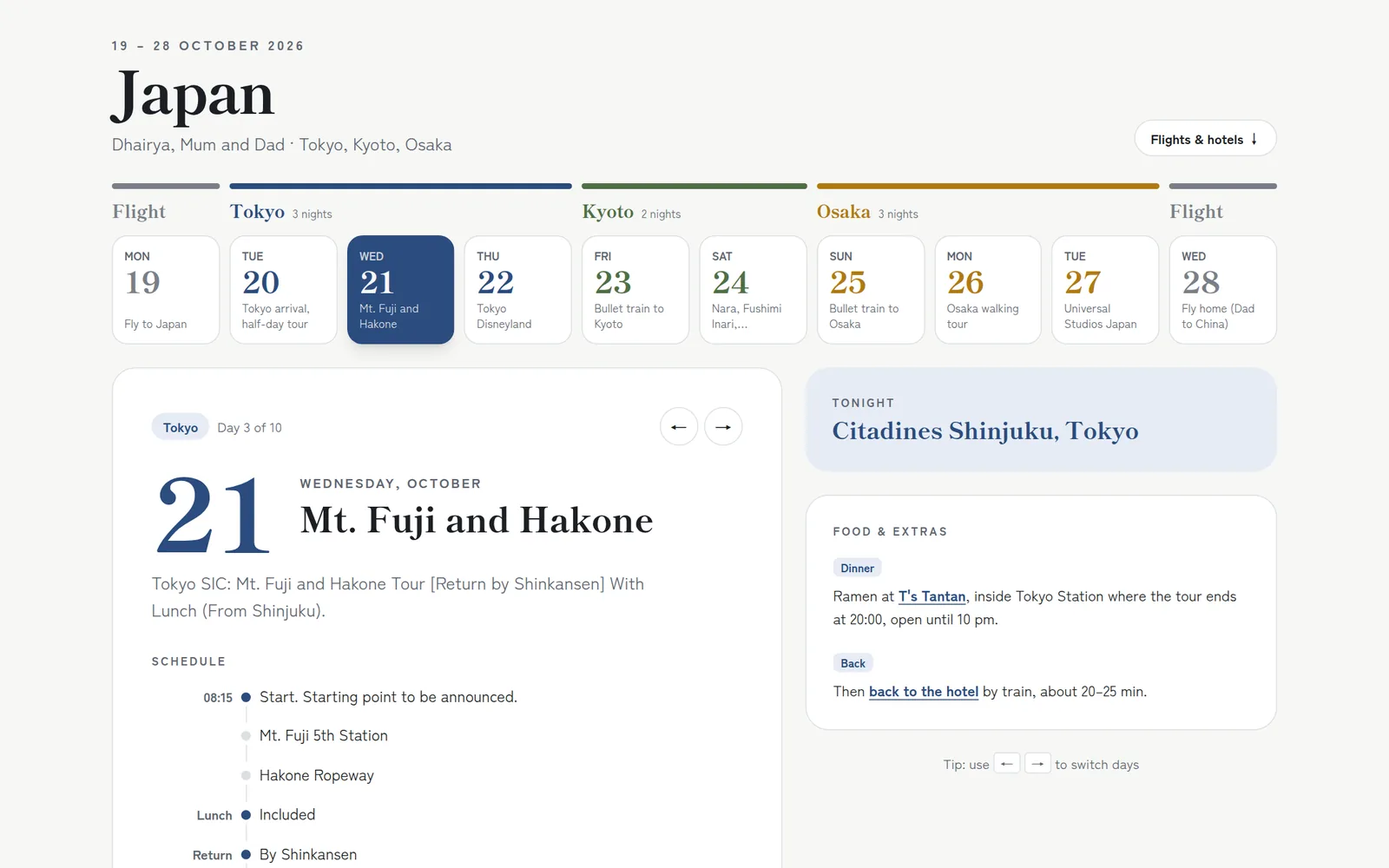
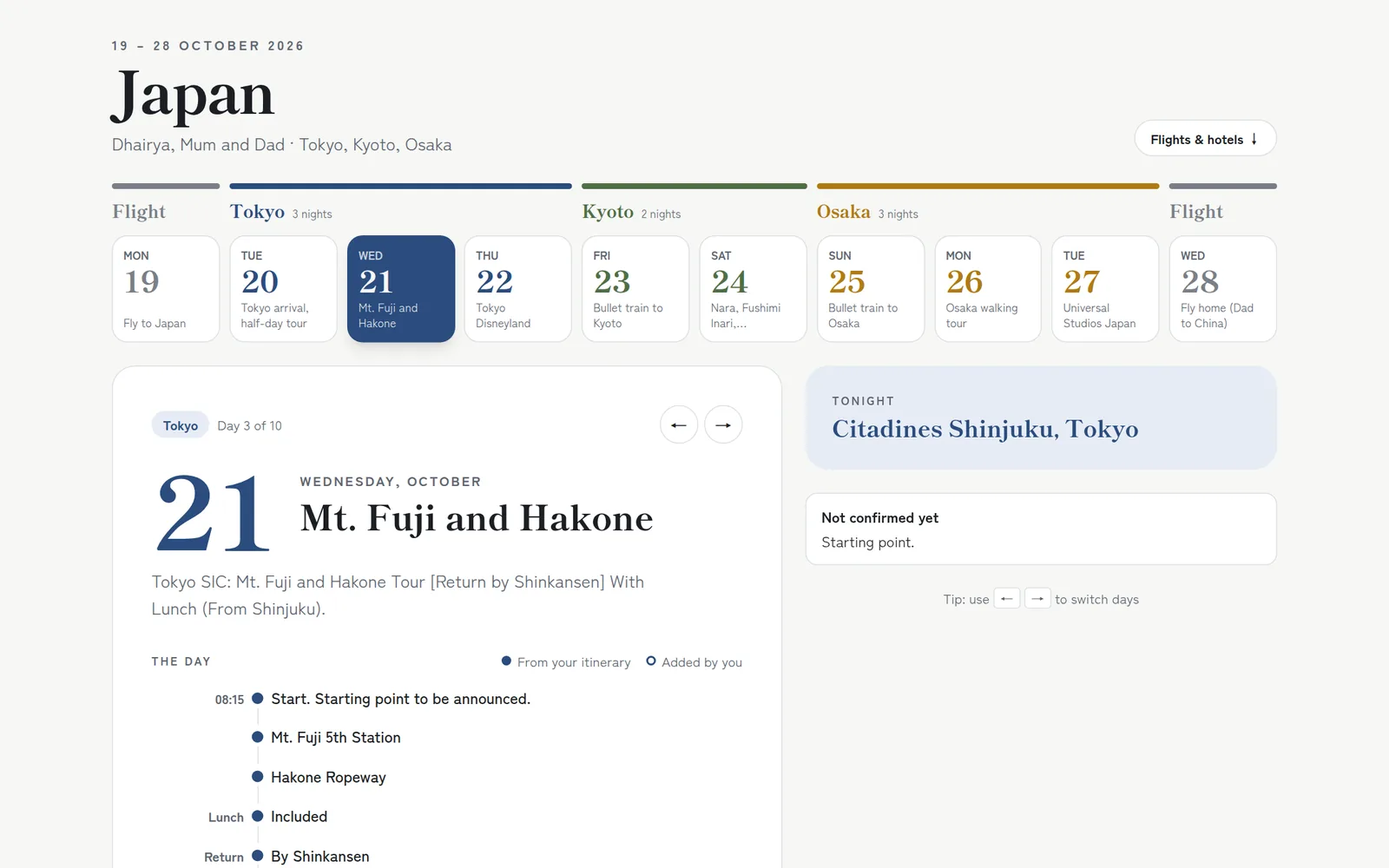
Japan plan: one timeline per day, from the latest version
The source now marks each entry as either from the agent's itinerary or
added by Dhairya, so a day is a single timeline instead of a schedule
plus a separate food list:

- Filled dot for itinerary entries, hollow dot + "added" tag for his
  own; a legend explains them. Notes hang under their entry on a dotted
  rule in the city colour.
- Desktop: the timeline fills the day panel; tips move beside it under
  "Tonight". The separate "Food & extras" card is gone.
- Phone: the same timeline on a rail, legend in the header.

New content: a Tokyo morning on 23 Oct (teamLab Borderless, Takeshita
Street, WEGO and Kiddy Land, vegan ramen, then the 16:00 bullet train),
tour start time on 24 Oct, Pokémon Center and a Tombori river cruise on
25 Oct, a vegan dinner on 27 Oct, and rough times on the evening plans.

Booking references stripped again. CLAUDE.md documents the update steps;
the project card screenshot is retaken.

Claude-Session: https://claude.ai/code/session_014auDLpKvqoJUHjijAZGS88

diff --git a/src/japan/data.ts b/src/japan/data.ts
@@ -5,15 +5,16 @@
  */
 export type City = "tokyo" | "kyoto" | "osaka" | "travel";
 export type Row = [label: string, text: string];
+/** "i" = from the agent's itinerary, "x" = added by Dhairya. An optional note sits under the entry. */
+export type Entry = [time: string, text: string, kind: "i" | "x", note?: string];
 export type Day = {
   date: string;
   city: City;
   label: string;
   title: string;
   gist: string;
-  plan: Row[];
+  timeline: Entry[];
   tips: Row[];
-  extras: Row[];
   sleep: string;
 };
 
@@ -21,81 +22,150 @@ export const DAYS: Day[] = [
   {
     date: "2026-10-19", city: "travel", label: "Kolkata to Tokyo", title: "Fly to Japan",
     gist: "Air India. 13h 30m, 1 stop in Delhi. Economy, confirmed.",
-    plan: [["12:55", "AI 1874 departs Kolkata (CCU)"], ["Delhi", "1 stop in Delhi (DEL), change to AI 358"], ["05:55", "AI 358 lands at Haneda Terminal 3, Tue 20 Oct (Tokyo time)"]],
+    timeline: [
+      ["12:55", "AI 1874 departs Kolkata (CCU)", "i"],
+      ["Delhi", "1 stop in Delhi (DEL), change to AI 358", "i"],
+      ["05:55", "AI 358 lands at Haneda Terminal 3, Tue 20 Oct (Tokyo time)", "i"],
+    ],
     tips: [["Seats", "Your booking shows seats only partly selected."], ["Meals", "Complimentary."]],
-    extras: [],
     sleep: "On the plane",
   },
   {
     date: "2026-10-20", city: "tokyo", label: "Tokyo", title: "Tokyo arrival, half-day tour",
     gist: "Tokyo Arrival. Tokyo SIC (shared group) half-day tour.",
-    plan: [["05:55", "Land at Haneda Terminal 3"], ["Transfer", "Private airport transfer to the hotel"], ["12:00–13:00", "Room ready by 12–1 pm (earlier if available). Official check-in is 3 pm."], ["14:00", "Tour starts (3–4 hours, ends around 5–6 pm)"], ["", "Imperial Palace Plaza (photo stop)"], ["", "Senso-ji Temple and Nakamise Shopping Street (shopping time, max 1 hour)"], ["", "Kabukiza (photo stop)"], ["", "National Diet Building (photo stop)"], ["", "Tokyo Tower Main Deck (photo stop)"]],
+    timeline: [
+      ["05:55", "Land at Haneda Terminal 3", "i"],
+      ["Transfer", "Private airport transfer to the hotel", "i"],
+      ["Morning", "Egg sandwich from the [7-Eleven](https://www.google.com/maps/dir/?api=1&origin=Citadines+Shinjuku+Tokyo&origin_place_id=ChIJw3B7QeiMGGARMd-dUShWkFU&destination=7-Eleven+Shinjuku+1-chome&destination_place_id=ChIJDwGrFeiMGGARLCeEfqSx1T0&travelmode=walking) next to the hotel, about 50 m. Good for the morning while you wait for the room.", "x"],
+      ["12:00–13:00", "Room ready by 12–1 pm (earlier if available). Official check-in is 3 pm.", "i"],
+      ["14:00", "Tour starts (3–4 hours, ends around 5–6 pm)", "i"],
+      ["", "Imperial Palace Plaza (photo stop)", "i"],
+      ["", "Senso-ji Temple and Nakamise Shopping Street (shopping time, max 1 hour)", "i", "Browse [Nakamise Street](https://www.google.com/maps/dir/?api=1&origin=Senso-ji+Temple+Asakusa&destination=Nakamise+Shopping+Street&destination_place_id=ChIJPd37MMGOGGARvJ2hfxoiNVE&travelmode=walking) for souvenirs (fans, keychains, chopsticks). Stalls close around 5 pm. Grab the matcha cone at [Chacha Futatsume](https://www.google.com/maps/dir/?api=1&origin=Senso-ji+Temple+Asakusa&destination=Chacha+Futatsume&destination_place_id=ChIJI6WnnQuPGGARdCd19Rz8wbQ&travelmode=walking), about 260 m from Senso-ji near Kaminarimon gate, open until 6 pm, about ¥1,700. Links start at Senso-ji."],
+      ["", "Kabukiza (photo stop)", "i"],
+      ["", "National Diet Building (photo stop)", "i"],
+      ["", "Tokyo Tower Main Deck (photo stop)", "i"],
+      ["After the tour", "One walking loop after the tour. 1) Shoes at [ABC-Mart Premier Stage](https://www.google.com/maps/dir/?api=1&origin=Citadines+Shinjuku+Tokyo&origin_place_id=ChIJw3B7QeiMGGARMd-dUShWkFU&destination=ABC-MART+Premier+Stage+Shinjuku+3-chome&destination_place_id=ChIJoy4PhduMGGARKoS1r54Rdro&travelmode=walking) (Nike, Adidas, New Balance, Asics), about 800 m from the hotel, closes 9 pm, so go here first. 2) [Uniqlo flagship, GU and Bic Camera](https://www.google.com/maps/dir/?api=1&origin=ABC-MART+Premier+Stage+Shinjuku+3-chome&origin_place_id=ChIJoy4PhduMGGARKoS1r54Rdro&destination=Bic+Camera+Shinjuku+East+Exit&destination_place_id=ChIJCT-INACNGGARWLBECvtQoNI&travelmode=walking), all in one building, about 300 m from ABC-Mart (link starts there), open until 10 pm.", "x"],
+      ["Dinner", "Before shopping: [Ain Soph Journey](https://www.google.com/maps/dir/?api=1&origin=Citadines+Shinjuku+Tokyo&origin_place_id=ChIJw3B7QeiMGGARMd-dUShWkFU&destination=Ain+Soph+Journey+Shinjuku&destination_place_id=ChIJyUynodyMGGARfdwk4A8pub8&travelmode=walking), about 650 m from the hotel, on the way to ABC-Mart, dinner from 6 pm, book ahead. Or after shopping: ramen at [Afuri Shinjuku Lumine](https://www.google.com/maps/dir/?api=1&origin=Bic+Camera+Shinjuku+East+Exit&origin_place_id=ChIJCT-INACNGGARWLBECvtQoNI&destination=Afuri+Shinjuku+Lumine&destination_place_id=ChIJq6qq-dCMGGARmyGicupYD2Y&travelmode=walking), about 400 m from Bic Camera (link starts there), open until 10 pm. Afuri to the hotel is about 1.5 km, 20 min walk or a short taxi.", "x"],
+    ],
     tips: [["Not confirmed yet", "Tour pickup point."]],
-    extras: [["Breakfast", "Egg sandwich from the [7-Eleven](https://www.google.com/maps/dir/?api=1&origin=Citadines+Shinjuku+Tokyo&origin_place_id=ChIJw3B7QeiMGGARMd-dUShWkFU&destination=7-Eleven+Shinjuku+1-chome&destination_place_id=ChIJDwGrFeiMGGARLCeEfqSx1T0&travelmode=walking) next to the hotel, about 50 m. Good for the morning while you wait for the room."], ["Asakusa (1 hour)", "Browse [Nakamise Street](https://www.google.com/maps/dir/?api=1&origin=Senso-ji+Temple+Asakusa&destination=Nakamise+Shopping+Street&destination_place_id=ChIJPd37MMGOGGARvJ2hfxoiNVE&travelmode=walking) for souvenirs (fans, keychains, chopsticks). Stalls close around 5 pm. Grab the matcha cone at [Chacha Futatsume](https://www.google.com/maps/dir/?api=1&origin=Senso-ji+Temple+Asakusa&destination=Chacha+Futatsume&destination_place_id=ChIJI6WnnQuPGGARdCd19Rz8wbQ&travelmode=walking), about 260 m from Senso-ji near Kaminarimon gate, open until 6 pm, about ¥1,700. Links start at Senso-ji."], ["Evening shopping", "One walking loop after the tour. 1) Shoes at [ABC-Mart Premier Stage](https://www.google.com/maps/dir/?api=1&origin=Citadines+Shinjuku+Tokyo&origin_place_id=ChIJw3B7QeiMGGARMd-dUShWkFU&destination=ABC-MART+Premier+Stage+Shinjuku+3-chome&destination_place_id=ChIJoy4PhduMGGARKoS1r54Rdro&travelmode=walking) (Nike, Adidas, New Balance, Asics), about 800 m from the hotel, closes 9 pm, so go here first. 2) [Uniqlo flagship, GU and Bic Camera](https://www.google.com/maps/dir/?api=1&origin=ABC-MART+Premier+Stage+Shinjuku+3-chome&origin_place_id=ChIJoy4PhduMGGARKoS1r54Rdro&destination=Bic+Camera+Shinjuku+East+Exit&destination_place_id=ChIJCT-INACNGGARWLBECvtQoNI&travelmode=walking), all in one building, about 300 m from ABC-Mart (link starts there), open until 10 pm."], ["Dinner (pick one)", "Before shopping: [Ain Soph Journey](https://www.google.com/maps/dir/?api=1&origin=Citadines+Shinjuku+Tokyo&origin_place_id=ChIJw3B7QeiMGGARMd-dUShWkFU&destination=Ain+Soph+Journey+Shinjuku&destination_place_id=ChIJyUynodyMGGARfdwk4A8pub8&travelmode=walking), about 650 m from the hotel, on the way to ABC-Mart, dinner from 6 pm, book ahead. Or after shopping: ramen at [Afuri Shinjuku Lumine](https://www.google.com/maps/dir/?api=1&origin=Bic+Camera+Shinjuku+East+Exit&origin_place_id=ChIJCT-INACNGGARWLBECvtQoNI&destination=Afuri+Shinjuku+Lumine&destination_place_id=ChIJq6qq-dCMGGARmyGicupYD2Y&travelmode=walking), about 400 m from Bic Camera (link starts there), open until 10 pm. Afuri to the hotel is about 1.5 km, 20 min walk or a short taxi."]],
     sleep: "Citadines Shinjuku, Tokyo",
   },
   {
     date: "2026-10-21", city: "tokyo", label: "Tokyo", title: "Mt. Fuji and Hakone",
     gist: "Tokyo SIC: Mt. Fuji and Hakone Tour [Return by Shinkansen] With Lunch (From Shinjuku).",
-    plan: [["08:15", "Start. Starting point to be announced."], ["", "Mt. Fuji 5th Station"], ["", "Hakone Ropeway"], ["Lunch", "Included"], ["Return", "By Shinkansen"], ["20:00", "Ends at Tokyo Station"]],
+    timeline: [
+      ["08:15", "Start. Starting point to be announced.", "i"],
+      ["", "Mt. Fuji 5th Station", "i"],
+      ["", "Hakone Ropeway", "i"],
+      ["Lunch", "Included", "i"],
+      ["Return", "By Shinkansen", "i"],
+      ["20:00", "Ends at Tokyo Station", "i"],
+      ["~20:15", "Ramen at [T's Tantan](https://www.google.com/maps/dir/?api=1&origin=Citadines+Shinjuku+Tokyo&origin_place_id=ChIJw3B7QeiMGGARMd-dUShWkFU&destination=T%27s+Tantan+Tokyo+Station&destination_place_id=ChIJtTLL9fuLGGARm6IP54k3xn4&travelmode=transit), inside Tokyo Station where the tour ends at 20:00, open until 10 pm.", "x"],
+      ["~21:15", "Then [back to the hotel](https://www.google.com/maps/dir/?api=1&origin=T%27s+Tantan+Tokyo+Station&origin_place_id=ChIJtTLL9fuLGGARm6IP54k3xn4&destination=Citadines+Shinjuku+Tokyo&destination_place_id=ChIJw3B7QeiMGGARMd-dUShWkFU&travelmode=transit) by train, about 20–25 min.", "x"],
+    ],
     tips: [["Not confirmed yet", "Starting point."]],
-    extras: [["Dinner", "Ramen at [T's Tantan](https://www.google.com/maps/dir/?api=1&origin=Citadines+Shinjuku+Tokyo&origin_place_id=ChIJw3B7QeiMGGARMd-dUShWkFU&destination=T%27s+Tantan+Tokyo+Station&destination_place_id=ChIJtTLL9fuLGGARm6IP54k3xn4&travelmode=transit), inside Tokyo Station where the tour ends at 20:00, open until 10 pm."], ["Back", "Then [back to the hotel](https://www.google.com/maps/dir/?api=1&origin=T%27s+Tantan+Tokyo+Station&origin_place_id=ChIJtTLL9fuLGGARm6IP54k3xn4&destination=Citadines+Shinjuku+Tokyo&destination_place_id=ChIJw3B7QeiMGGARMd-dUShWkFU&travelmode=transit) by train, about 20–25 min."]],
     sleep: "Citadines Shinjuku, Tokyo",
   },
   {
     date: "2026-10-22", city: "tokyo", label: "Tokyo", title: "Tokyo Disneyland",
     gist: "Tokyo – Disney transfer (two way, private). Disneyland entry ticket only, with transfers.",
-    plan: [["To", "Private transfer to Disneyland"], ["All day", "Disneyland (entry ticket included)"], ["Back", "Private transfer to the hotel"]],
+    timeline: [
+      ["To", "Private transfer to Disneyland", "i"],
+      ["All day", "Disneyland (entry ticket included)", "i"],
+      ["Back", "Private transfer to the hotel", "i"],
+      ["Dinner", "Curry rice at [CoCo Ichibanya Shinjuku 2-chome](https://www.google.com/maps/dir/?api=1&origin=Citadines+Shinjuku+Tokyo&origin_place_id=ChIJw3B7QeiMGGARMd-dUShWkFU&destination=CoCo+Ichibanya+Shinjuku+2-chome&destination_place_id=ChIJCSlcwsKMGGARBi3AfgAp8R4&travelmode=walking), about 350 m from the hotel, open until 11 pm. Ask for the vegetarian menu.", "x"],
+      ["After dinner", "Souvenirs, snacks and funny t-shirts at [Don Quijote Shinjuku Tonanguchi](https://www.google.com/maps/dir/?api=1&origin=CoCo+Ichibanya+Shinjuku+2-chome&origin_place_id=ChIJCSlcwsKMGGARBi3AfgAp8R4&destination=Don+Quijote+Shinjuku+Tonanguchi&destination_place_id=ChIJ18MWiNqMGGARsZO5vEUCONc&travelmode=walking), 8 floors, open 24 hours, about 800 m from CoCo (link starts there). Bring your passport for tax-free. About 1.2 km back to the hotel.", "x"],
+    ],
     tips: [],
-    extras: [["Dinner", "Curry rice at [CoCo Ichibanya Shinjuku 2-chome](https://www.google.com/maps/dir/?api=1&origin=Citadines+Shinjuku+Tokyo&origin_place_id=ChIJw3B7QeiMGGARMd-dUShWkFU&destination=CoCo+Ichibanya+Shinjuku+2-chome&destination_place_id=ChIJCSlcwsKMGGARBi3AfgAp8R4&travelmode=walking), about 350 m from the hotel, open until 11 pm. Ask for the vegetarian menu."], ["After dinner", "Souvenirs, snacks and funny t-shirts at [Don Quijote Shinjuku Tonanguchi](https://www.google.com/maps/dir/?api=1&origin=CoCo+Ichibanya+Shinjuku+2-chome&origin_place_id=ChIJCSlcwsKMGGARBi3AfgAp8R4&destination=Don+Quijote+Shinjuku+Tonanguchi&destination_place_id=ChIJ18MWiNqMGGARsZO5vEUCONc&travelmode=walking), 8 floors, open 24 hours, about 800 m from CoCo (link starts there). Bring your passport for tax-free. About 1.2 km back to the hotel."]],
     sleep: "Citadines Shinjuku, Tokyo",
   },
   {
     date: "2026-10-23", city: "kyoto", label: "Tokyo to Kyoto", title: "Bullet train to Kyoto",
     gist: "Tokyo to Kyoto by bullet train.",
-    plan: [["", "Check out from the hotel"], ["", "Station transfer (private)"], ["", "Bullet train to Kyoto (tickets included)"], ["", "Arrive at the Kyoto hotel and check in"]],
+    timeline: [
+      ["~8:00", "Check out from the hotel", "i", "Leave bags at the hotel front desk."],
+      ["8:30–11:00", "teamLab (Tokyo), 2–3 hours", "i", "[teamLab Borderless](https://www.google.com/maps/dir/?api=1&origin=Citadines+Shinjuku+Tokyo&origin_place_id=ChIJw3B7QeiMGGARMd-dUShWkFU&destination=teamLab+Borderless+Azabudai+Hills&destination_place_id=ChIJQ5Sa1PqJGGARUSaNKKOrMVg&travelmode=transit) (Azabudai Hills), about 4 km from the hotel, ~25 min by metro or ~15–20 min by taxi. Opens 8:30 am. Book the 8:30 entry online in advance. Free lockers inside."],
+      ["~11:00", "Taxi to [Takeshita Street, Harajuku](https://www.google.com/maps/dir/?api=1&origin=teamLab+Borderless+Azabudai+Hills&origin_place_id=ChIJQ5Sa1PqJGGARUSaNKKOrMVg&destination=Takeshita+Street+Harajuku&destination_place_id=ChIJlVne8bqMGGARtX5O6ojMvsI&travelmode=driving), about 3.6 km, ~15 min. Each link from here starts at the previous stop.", "x"],
+      ["11:30", "Shopping", "i", "[WEGO Harajuku](https://www.google.com/maps/dir/?api=1&origin=Takeshita+Street+Harajuku&origin_place_id=ChIJlVne8bqMGGARtX5O6ojMvsI&destination=WEGO+Harajuku&destination_place_id=ChIJKx4CWaOMGGARoZCHUKj3nnM&travelmode=walking) for cheap fun clothes, then [Kiddy Land](https://www.google.com/maps/dir/?api=1&origin=WEGO+Harajuku&origin_place_id=ChIJKx4CWaOMGGARoZCHUKj3nnM&destination=Kiddy+Land+Harajuku&destination_place_id=ChIJu1uP9aOMGGARiZH5QxSqDm0&travelmode=walking) (about 400 m) for anime and character goods. Pay on each floor."],
+      ["12:45 lunch", "[Vegan Bistro Jangara](https://www.google.com/maps/dir/?api=1&origin=Kiddy+Land+Harajuku&origin_place_id=ChIJu1uP9aOMGGARiZH5QxSqDm0&destination=Vegan+Bistro+Jangara+Harajuku&destination_place_id=ChIJaWQvzaiNGGARhBHfiQXyKWs&travelmode=walking), vegan ramen, curry and gyoza, about 400 m, opposite Harajuku Station (2F, above FamilyMart).", "x"],
+      ["~13:45", "Train or taxi back to the hotel for bags. Be back by 2:30 pm for the station transfer.", "x"],
+      ["~14:30", "Station transfer (private)", "i"],
+      ["16:00", "Bullet train to Kyoto (tickets included)", "i"],
+      ["Evening", "Arrive at the Kyoto hotel and check in", "i"],
+      ["Dinner", "In Kyoto: Indian at [Dana Pani En](https://www.google.com/maps/dir/?api=1&origin=Rihga+Royal+Hotel+Kyoto&origin_place_id=ChIJ2_bqcpUIAWARCxsfbw83nEY&destination=Dana+Pani+En&destination_place_id=ChIJK48KUVUPAWARc5ccxzhHEPs&travelmode=walking), about 1.4 km from the Kyoto hotel, dinner until 9:30 pm.", "x"],
+    ],
     tips: [["Package note", "Intercity baggage transfer is not included."]],
-    extras: [["Afternoon", "After check-in: [teamLab Biovortex Kyoto](https://www.google.com/maps/dir/?api=1&origin=Rihga+Royal+Hotel+Kyoto&origin_place_id=ChIJ2_bqcpUIAWARCxsfbw83nEY&destination=teamLab+Biovortex+Kyoto&destination_place_id=ChIJUW4XawAJAWARO8Dp88_nego&travelmode=walking), about 1.3 km, 17 min walk. Last entry 7:30 pm, plan 2.5–3 hours. Book a timed ticket for after your train arrives (time not confirmed yet)."], ["Dinner", "Indian at [Dana Pani En](https://www.google.com/maps/dir/?api=1&origin=teamLab+Biovortex+Kyoto&origin_place_id=ChIJUW4XawAJAWARO8Dp88_nego&destination=Dana+Pani+En&destination_place_id=ChIJK48KUVUPAWARc5ccxzhHEPs&travelmode=walking), about 800 m from teamLab (link starts at teamLab), dinner until 9:30 pm. If you finish teamLab late, go straight there."]],
     sleep: "RIHGA Royal Hotel, Kyoto",
   },
   {
     date: "2026-10-24", city: "kyoto", label: "Kyoto", title: "Nara, Fushimi Inari, Arashiyama",
     gist: "Nara, Fushimi Inari Taisha, Arashiyama bus tour.",
-    plan: [["", "Nara"], ["", "Fushimi Inari Taisha"], ["", "Arashiyama"]],
+    timeline: [
+      ["08:00–08:30", "Tour starts", "i"],
+      ["", "Nara", "i"],
+      ["", "Fushimi Inari Taisha", "i"],
+      ["", "Arashiyama", "i"],
+      ["Dinner", "After the bus tour (end time not given): curry rice at [CoCo Ichibanya Hachijo Entrance](https://www.google.com/maps/dir/?api=1&origin=Rihga+Royal+Hotel+Kyoto&origin_place_id=ChIJ2_bqcpUIAWARCxsfbw83nEY&destination=CoCo+Ichibanya+Hachijo+Entrance&destination_place_id=ChIJk8GcG60IAWARmjRXG5ZxYD8&travelmode=walking), about 1 km from the hotel, open until midnight. Ask for the vegetarian menu.", "x"],
+      ["After dinner", "Gadgets, gachapon capsule toys and anime goods at [Yodobashi Camera Kyoto](https://www.google.com/maps/dir/?api=1&origin=CoCo+Ichibanya+Hachijo+Entrance&origin_place_id=ChIJk8GcG60IAWARmjRXG5ZxYD8&destination=Yodobashi+Camera+Multimedia+Kyoto&destination_place_id=ChIJNfpddK8IAWAR21KSO4M57nY&travelmode=walking), open until 10 pm, about 700 m from CoCo through Kyoto Station (link starts there). About 650 m back to the hotel.", "x"],
+    ],
     tips: [],
-    extras: [["Dinner", "After the bus tour (end time not given): curry rice at [CoCo Ichibanya Hachijo Entrance](https://www.google.com/maps/dir/?api=1&origin=Rihga+Royal+Hotel+Kyoto&origin_place_id=ChIJ2_bqcpUIAWARCxsfbw83nEY&destination=CoCo+Ichibanya+Hachijo+Entrance&destination_place_id=ChIJk8GcG60IAWARmjRXG5ZxYD8&travelmode=walking), about 1 km from the hotel, open until midnight. Ask for the vegetarian menu."], ["After dinner", "Gadgets, gachapon capsule toys and anime goods at [Yodobashi Camera Kyoto](https://www.google.com/maps/dir/?api=1&origin=CoCo+Ichibanya+Hachijo+Entrance&origin_place_id=ChIJk8GcG60IAWARmjRXG5ZxYD8&destination=Yodobashi+Camera+Multimedia+Kyoto&destination_place_id=ChIJNfpddK8IAWAR21KSO4M57nY&travelmode=walking), open until 10 pm, about 700 m from CoCo through Kyoto Station (link starts there). About 650 m back to the hotel."]],
     sleep: "RIHGA Royal Hotel, Kyoto",
   },
   {
     date: "2026-10-25", city: "osaka", label: "Kyoto to Osaka", title: "Bullet train to Osaka",
     gist: "Kyoto to Osaka by bullet train.",
-    plan: [["", "Bullet train to Osaka"]],
+    timeline: [
+      ["12:00", "Bullet train to Osaka", "i"],
+      ["Afternoon", "In Osaka, after dropping bags at the hotel. Each link starts from the previous stop. Shops close at 8 pm.", "x"],
+      ["1. Pokémon Center", "[Pokémon Center Osaka DX](https://www.google.com/maps/dir/?api=1&origin=Osaka+View+Hotel+Honmachi&origin_place_id=ChIJDYCo9OLmAGARHahlNEJ5nhQ&destination=Pokemon+Center+Osaka+DX&destination_place_id=ChIJiZ8OQInnAGART2BGEGqySKk&travelmode=walking), Daimaru Shinsaibashi 9F, about 1.25 km from the hotel (16 min walk, or 1 stop on the Midosuji line to Shinsaibashi, which connects to Daimaru). Osaka-only pins, cards and plushies; One Piece shop on the same floor. Open until 8 pm.", "x"],
+      ["2. Shoes", "Cross the arcade to [Asics Shinsaibashi](https://www.google.com/maps/dir/?api=1&origin=Pokemon+Center+Osaka+DX&origin_place_id=ChIJiZ8OQInnAGART2BGEGqySKk&destination=asics+Osaka+Shinsaibashi&destination_place_id=ChIJE0F1JxHnAGARp2gpTuFLvhE&travelmode=walking), about 100 m. Open until 8 pm.", "x"],
+      ["3. Vintage", "Shirts and pants at [JAM Amerikamura](https://www.google.com/maps/dir/?api=1&origin=asics+Osaka+Shinsaibashi&origin_place_id=ChIJE0F1JxHnAGARp2gpTuFLvhE&destination=JAM+Amerika-mura+2nd+Store&destination_place_id=ChIJ_SbkeCDnAGARdgGFBWA0Bc8&travelmode=walking), about 300 m. Open until 8 pm. If you're running late, skip this one.", "x"],
+      ["~6:00 pm dinner", "Omurice at [Hokkyokusei Namba](https://www.google.com/maps/dir/?api=1&origin=JAM+Amerika-mura+2nd+Store&origin_place_id=ChIJ_SbkeCDnAGARdgGFBWA0Bc8&destination=Hokkyokusei+Namba&destination_place_id=ChIJ3eR2kGznAGARr0Fl25AeyHA&travelmode=walking), Takashimaya B1F, about 1.1 km (14 min walk). Closes 8 pm. Ask for the vegetarian omurice.", "x"],
+      ["~7:00 pm Dotonbori", "Photo with the Glico sign from [Ebisu Bridge](https://www.google.com/maps/dir/?api=1&origin=Hokkyokusei+Namba&origin_place_id=ChIJ3eR2kGznAGARr0Fl25AeyHA&destination=Ebisu+Bridge&destination_place_id=ChIJdyYZhBPnAGARPF9WeVTYbZM&travelmode=walking) (about 500 m). Then the [Tombori River Cruise](https://www.google.com/maps/dir/?api=1&origin=Ebisu+Bridge&origin_place_id=ChIJdyYZhBPnAGARPF9WeVTYbZM&destination=Tombori+River+Cruise&destination_place_id=ChIJ2ySFjBTnAGAR3ngfXW-dwaU&travelmode=walking) from the pier next to the bridge: 20 min ride under the neon, about ¥2,000, last boats around 9 pm. Then the lantern lane [Hozenji Yokocho](https://www.google.com/maps/dir/?api=1&origin=Tombori+River+Cruise&origin_place_id=ChIJ2ySFjBTnAGAR3ngfXW-dwaU&destination=Hozenji+Yokocho&destination_place_id=ChIJY4ZQxRTnAGAR0mjfWQwO7ho&travelmode=walking) (about 100 m) and taiyaki at [Naruto Taiyaki](https://www.google.com/maps/dir/?api=1&origin=Hozenji+Yokocho&origin_place_id=ChIJY4ZQxRTnAGAR0mjfWQwO7ho&destination=Naruto+Taiyaki+Hompo+Osaka&destination_place_id=ChIJ63rK2mrnAGARmhZZX0xYTw0&travelmode=walking) (about 200 m).", "x"],
+      ["Back", "Namba Station is about 400 m away. Midosuji line 2 stops to Hommachi.", "x"],
+    ],
     tips: [["Package note", "Intercity baggage transfer is not included."]],
-    extras: [["Shopping afternoon", "One route, in this order, after check-in (train time not confirmed; start by 3 pm to fit it all). 1) Shoes at [Asics Shinsaibashi](https://www.google.com/maps/dir/?api=1&origin=Osaka+View+Hotel+Honmachi&origin_place_id=ChIJDYCo9OLmAGARHahlNEJ5nhQ&destination=asics+Osaka+Shinsaibashi&destination_place_id=ChIJE0F1JxHnAGARp2gpTuFLvhE&travelmode=walking), about 1.1 km from the hotel, 15 min walk or 1 stop on the Midosuji line, closes 8 pm. 2) Walk the Shinsaibashi-suji covered arcade (Uniqlo, GU, ABC-Mart). 3) Vintage shirts and pants at [JAM Amerikamura](https://www.google.com/maps/dir/?api=1&origin=asics+Osaka+Shinsaibashi&origin_place_id=ChIJE0F1JxHnAGARp2gpTuFLvhE&destination=JAM+Amerika-mura+2nd+Store&destination_place_id=ChIJ_SbkeCDnAGARdgGFBWA0Bc8&travelmode=walking), about 300 m from Asics (link starts there), closes 8 pm."], ["Dinner", "Omurice at [Hokkyokusei Namba](https://www.google.com/maps/dir/?api=1&origin=JAM+Amerika-mura+2nd+Store&origin_place_id=ChIJ_SbkeCDnAGARdgGFBWA0Bc8&destination=Hokkyokusei+Namba&destination_place_id=ChIJ3eR2kGznAGARr0Fl25AeyHA&travelmode=walking), Takashimaya B1F, about 1.1 km from JAM (link starts there), closes 8 pm, so arrive by 7. Ask for the vegetarian omurice."], ["Dessert", "Taiyaki at [Naruto Taiyaki Hompo](https://www.google.com/maps/dir/?api=1&origin=Hokkyokusei+Namba&origin_place_id=ChIJ3eR2kGznAGARr0Fl25AeyHA&destination=Naruto+Taiyaki+Hompo+Osaka&destination_place_id=ChIJ63rK2mrnAGARmhZZX0xYTw0&travelmode=walking), about 400 m from Hokkyokusei, then Dotonbori neon. Train back from Namba to Hommachi."]],
     sleep: "Osaka View Hotel Honmachi",
   },
   {
     date: "2026-10-26", city: "osaka", label: "Osaka", title: "Osaka walking tour",
     gist: "Osaka SIC: 1-Day Osaka Walking Tour with Western-style Lunch (round trip from Osaka-Umeda).",
-    plan: [["09:40", "Start at Hotel Hankyu Respire Osaka"], ["", "Floating Garden Observatory"], ["Lunch", "Western-style set menu at Hotel Hankyu Respire Osaka"], ["", "Board the Aqua Liner"], ["", "Osaka Castle"], ["17:45", "Ends at Higashi-Umeda Station"]],
+    timeline: [
+      ["09:40", "Start at Hotel Hankyu Respire Osaka", "i"],
+      ["", "Floating Garden Observatory", "i"],
+      ["Lunch", "Western-style set menu at Hotel Hankyu Respire Osaka", "i"],
+      ["", "Board the Aqua Liner", "i"],
+      ["", "Osaka Castle", "i"],
+      ["17:45", "Ends at Higashi-Umeda Station", "i"],
+      ["~18:15", "The tour ends 17:45 at Higashi-Umeda. Go [to SURUGA-YA Nipponbashi](https://www.google.com/maps/dir/?api=1&origin=Higashi-Umeda+Station&destination=SURUGA-YA+Osaka+Nipponbashi&destination_place_id=ChIJ51SvEWjnAGARPA6EuPAVGDU&travelmode=transit) in Den Den Town (figures, games, cards, manga), about 30 min by train, open until 9 pm. Most other Den Den Town shops close around 7 pm, so Suruga-ya is the safe one.", "x"],
+      ["~19:30 dinner", "Okonomiyaki at [CHIBO Dotonbori](https://www.google.com/maps/dir/?api=1&origin=SURUGA-YA+Osaka+Nipponbashi&origin_place_id=ChIJ51SvEWjnAGARPA6EuPAVGDU&destination=CHIBO+Dotonbori&destination_place_id=ChIJk9v34BTnAGAR8SL3pWF-3Js&travelmode=walking), about 950 m from Suruga-ya, 13 min walk (link starts there), open until 11 pm. Ask for no meat, seafood or bonito flakes. Train back from Namba to Hommachi.", "x"],
+    ],
     tips: [["Package note", "Vegetarian meals are available and must be requested at the time of booking."]],
-    extras: [["Collectibles", "The tour ends 17:45 at Higashi-Umeda. Go [to SURUGA-YA Nipponbashi](https://www.google.com/maps/dir/?api=1&origin=Higashi-Umeda+Station&destination=SURUGA-YA+Osaka+Nipponbashi&destination_place_id=ChIJ51SvEWjnAGARPA6EuPAVGDU&travelmode=transit) in Den Den Town (figures, games, cards, manga), about 30 min by train, open until 9 pm. Most other Den Den Town shops close around 7 pm, so Suruga-ya is the safe one."], ["Dinner", "Okonomiyaki at [CHIBO Dotonbori](https://www.google.com/maps/dir/?api=1&origin=SURUGA-YA+Osaka+Nipponbashi&origin_place_id=ChIJ51SvEWjnAGARPA6EuPAVGDU&destination=CHIBO+Dotonbori&destination_place_id=ChIJk9v34BTnAGAR8SL3pWF-3Js&travelmode=walking), about 950 m from Suruga-ya, 13 min walk (link starts there), open until 11 pm. Ask for no meat, seafood or bonito flakes. Train back from Namba to Hommachi."]],
     sleep: "Osaka View Hotel Honmachi",
   },
   {
     date: "2026-10-27", city: "osaka", label: "Osaka", title: "Universal Studios Japan",
     gist: "Osaka – Universal Studios (pick and drop transfer, private). Entry ticket only.",
-    plan: [["To", "Private pickup to Universal Studios"], ["All day", "Universal Studios (entry ticket included)"], ["Back", "Private drop to the hotel"]],
+    timeline: [
+      ["To", "Private pickup to Universal Studios", "i"],
+      ["All day", "Universal Studios (entry ticket included)", "i"],
+      ["Back", "Private drop to the hotel", "i"],
+      ["Dinner", "After Universal Studios: [Paprika Shokudo Vegan](https://www.google.com/maps/dir/?api=1&origin=Osaka+View+Hotel+Honmachi&origin_place_id=ChIJDYCo9OLmAGARHahlNEJ5nhQ&destination=Paprika+Shokudo+Vegan&destination_place_id=ChIJ72nbqATnAGAR8GMxZxz0qNw&travelmode=walking), fully vegan (burgers, gyoza, set meals), about 1 km from the hotel, 12 min walk. Tuesday dinner 5:30–9 pm. If you're back late or too tired: [CoCo Ichibanya](https://www.google.com/maps/dir/?api=1&origin=Osaka+View+Hotel+Honmachi&origin_place_id=ChIJDYCo9OLmAGARHahlNEJ5nhQ&destination=CoCo+Ichibanya+Honmachi+4-chome&destination_place_id=ChIJ_UBzl-LmAGAROd5c6aTbeDg&travelmode=walking) across the street, open until 10 pm.", "x"],
+    ],
     tips: [],
-    extras: [["Dinner", "After Universal Studios: curry rice at [CoCo Ichibanya Honmachi 4-chome](https://www.google.com/maps/dir/?api=1&origin=Osaka+View+Hotel+Honmachi&origin_place_id=ChIJDYCo9OLmAGARHahlNEJ5nhQ&destination=CoCo+Ichibanya+Honmachi+4-chome&destination_place_id=ChIJ_UBzl-LmAGAROd5c6aTbeDg&travelmode=walking), about 110 m from the hotel, open until 10 pm. Ask for the vegetarian menu."]],
     sleep: "Osaka View Hotel Honmachi",
   },
   {
     date: "2026-10-28", city: "travel", label: "Osaka to Kolkata", title: "Fly home (Dad to China)",
     gist: "Airport transfer, one way (private). Thai Vietjet, 1 stop in Bangkok. Dhairya and Sweta fly home. Dad flies on to China separately.",
-    plan: [["", "Private transfer to the airport"], ["12:00", "VZ 567 departs Kansai (KIX)"], ["18:10", "Lands Bangkok (BKK), 4h 20m layover, change planes"], ["22:30", "VZ 770 departs Bangkok"], ["23:50", "Lands Kolkata (CCU)"]],
+    timeline: [
+      ["", "Private transfer to the airport", "i"],
+      ["12:00", "VZ 567 departs Kansai (KIX)", "i"],
+      ["18:10", "Lands Bangkok (BKK), 4h 20m layover, change planes", "i"],
+      ["22:30", "VZ 770 departs Bangkok", "i"],
+      ["23:50", "Lands Kolkata (CCU)", "i"],
+    ],
     tips: [["Itinerary error", "The itinerary says transfer from Narita. Your flight leaves from Kansai (KIX)."], ["Baggage", "Cabin 7 kg and check-in 20 kg per adult."]],
-    extras: [],
     sleep: "Home",
   },
 ];

diff --git a/src/japan/App.tsx b/src/japan/App.tsx
@@ -1,7 +1,7 @@
 "use client";
 
 import { Fragment, useCallback, useEffect, useRef, useState, useSyncExternalStore, type ReactNode } from "react";
-import { DAYS, FLIGHTS, HOTELS, TODO, type City, type Row } from "./data";
+import { DAYS, FLIGHTS, HOTELS, TODO, type City, type Entry } from "./data";
 
 /** Where this lives on the portfolio. Every day has its own URL under it. */
 const BASE = "/Japan2026";
@@ -110,33 +110,77 @@ function useSlide(container: React.RefObject<HTMLElement | null>, active: number
 
 /* ---------- shared pieces ---------- */
 
-function Schedule({ rows, city, compact }: { rows: Row[]; city: City; compact?: boolean }) {
-  if (compact)
-    return (
-      <ol className="divide-y divide-dashed divide-line">
-        {rows.map(([t, x], i) => (
-          <li key={i} className="py-2">
-            {t && <div className="text-[.78rem] font-bold tracking-wide text-muted tabular-nums">{t}</div>}
-            <Rich text={x} />
-          </li>
-        ))}
-      </ol>
-    );
+/**
+ * A day as one line: what the agent booked (filled dot) and what Dhairya
+ * added around it (hollow dot, "added" tag), in time order. A note, if any,
+ * hangs under its entry on a dotted rule in the city colour.
+ */
+function Timeline({ entries, city, compact }: { entries: Entry[]; city: City; compact?: boolean }) {
+  const c = CITY[city];
   return (
-    <ol className="relative">
-      {rows.map(([t, x], i) => (
-        <li key={i} className="grid grid-cols-[84px_28px_1fr] items-start">
-          <span className="pt-[3px] text-right text-sm font-bold text-muted tabular-nums">{t}</span>
-          <span className="relative flex h-full justify-center">
-            {i < rows.length - 1 && <span className="absolute top-3 bottom-0 w-px bg-line" />}
-            <span className={cx("relative mt-[9px] size-2.5 rounded-full ring-4 ring-surface", t ? CITY[city].bg : "bg-line")} />
-          </span>
-          <span className="pb-4">
-            <Rich text={x} />
-          </span>
-        </li>
-      ))}
+    <ol className={cx("relative", compact && "ml-1.5 border-l-2 border-line")}>
+      {entries.map(([t, x, kind, note], i) => {
+        const added = kind === "x";
+        const dot = cx(
+          "size-3 rounded-full",
+          added ? cx("border-2 bg-surface", c.border) : c.bg,
+        );
+        const body = (
+          <>
+            <span className={cx(added ? "text-ink" : "font-medium")}>
+              <Rich text={x} />
+              {added && (
+                <em className="ml-1.5 inline-block rounded border border-line px-1 align-[1px] text-[.65rem] font-bold tracking-wide text-muted uppercase not-italic">
+                  added
+                </em>
+              )}
+            </span>
+            {note && (
+              <span className={cx("mt-1.5 block border-l-2 border-dotted pl-2.5 text-[.92rem] text-muted", c.border)}>
+                <Rich text={note} />
+              </span>
+            )}
+          </>
+        );
+
+        if (compact)
+          return (
+            <li key={i} className="relative grid grid-cols-[64px_minmax(0,1fr)] gap-2.5 py-1.5 pb-2.5 pl-4">
+              <span className={cx("absolute top-[11px] -left-[7px]", dot)} />
+              <span className="pt-px text-[.82rem] font-bold text-muted tabular-nums">{t}</span>
+              <span className="min-w-0">{body}</span>
+            </li>
+          );
+
+        return (
+          <li key={i} className="grid grid-cols-[96px_28px_minmax(0,1fr)] items-start">
+            <span className="pt-[3px] text-right text-sm font-bold text-muted tabular-nums">{t}</span>
+            <span className="relative flex h-full justify-center">
+              {i < entries.length - 1 && <span className="absolute top-3 bottom-0 w-px bg-line" />}
+              <span className={cx("relative mt-[7px] ring-4 ring-surface", dot)} />
+            </span>
+            <span className="min-w-0 pb-4">{body}</span>
+          </li>
+        );
+      })}
     </ol>
+  );
+}
+
+/** Which dot means what. */
+function Legend({ city = "tokyo" as City, className }: { city?: City; className?: string }) {
+  const c = CITY[city];
+  return (
+    <p className={cx("flex flex-wrap gap-x-4 gap-y-1 text-sm text-muted", className)}>
+      <span className="flex items-center gap-1.5">
+        <span className={cx("size-2.5 rounded-full", c.bg)} />
+        From your itinerary
+      </span>
+      <span className="flex items-center gap-1.5">
+        <span className={cx("size-2.5 rounded-full border-2", c.border)} />
+        Added by you
+      </span>
+    </p>
   );
 }
 
@@ -362,16 +406,11 @@ function Desktop() {
             <Rich text={day.gist} />
           </p>
 
-          <h4 className="mt-8 mb-4 text-xs font-bold tracking-[.18em] text-muted uppercase">Schedule</h4>
-          <Schedule rows={day.plan} city={day.city} />
-
-          {day.tips.length > 0 && (
-            <div className="mt-4 grid grid-cols-2 gap-3">
-              {day.tips.map(([h, x]) => (
-                <Tip key={h} head={h} text={x} />
-              ))}
-            </div>
-          )}
+          <div className="mt-8 mb-4 flex flex-wrap items-baseline justify-between gap-3">
+            <h4 className="text-xs font-bold tracking-[.18em] text-muted uppercase">The day</h4>
+            <Legend city={day.city} />
+          </div>
+          <Timeline entries={day.timeline} city={day.city} />
         </article>
 
         <aside key={`${day.date}-aside`} className="day-fade col-span-5 flex flex-col gap-6">
@@ -380,23 +419,13 @@ function Desktop() {
             <div className={cx("mt-1 font-serif text-2xl font-extrabold", c.text)}>{day.sleep}</div>
           </div>
 
-          <div className="rounded-3xl border border-line bg-surface p-7">
-            <div className="mb-4 text-xs font-bold tracking-[.18em] text-muted uppercase">Food &amp; extras</div>
-            {day.extras.length ? (
-              <ul className="space-y-5">
-                {day.extras.map(([t, x], i) => (
-                  <li key={i}>
-                    <span className={cx("mb-1.5 inline-block rounded-md px-2 py-0.5 text-xs font-bold", c.soft, c.text)}>{t}</span>
-                    <div className="text-[.95rem] leading-relaxed">
-                      <Rich text={x} />
-                    </div>
-                  </li>
-                ))}
-              </ul>
-            ) : (
-              <p className="text-muted">Nothing extra planned for this day.</p>
-            )}
-          </div>
+          {day.tips.length > 0 && (
+            <div className="flex flex-col gap-3">
+              {day.tips.map(([h, x]) => (
+                <Tip key={h} head={h} text={x} />
+              ))}
+            </div>
+          )}
 
           <p className="text-center text-sm text-muted">
             Tip: use <kbd className="rounded border border-line bg-surface px-1.5 font-sans">←</kbd>{" "}
@@ -484,6 +513,7 @@ function Mobile() {
         <h1 className="mt-1 font-serif text-[2.6rem] leading-none font-extrabold">Japan</h1>
         <p className="mt-2 text-muted">Dhairya, Mum and Dad · Tokyo, Kyoto, Osaka</p>
         <span className="mt-3 inline-block rounded-full bg-ink px-3 py-1 text-sm font-bold text-paper">{countdownText()}</span>
+        <Legend className="mt-4" />
         <div className="mt-6 grid grid-cols-10 gap-1">
           {SEGMENTS.map((s, i) => (
             <div key={i} style={{ gridColumn: `span ${s.span}` }} className="min-w-0">
@@ -563,18 +593,12 @@ function Mobile() {
                   <p className="mb-3">
                     <Rich text={d.gist} />
                   </p>
-                  <Schedule rows={d.plan} city={d.city} compact />
+                  <Timeline entries={d.timeline} city={d.city} compact />
                   {d.tips.length > 0 && (
                     <div className="mt-3 space-y-2.5">
                       {d.tips.map(([h, x]) => (
                         <Tip key={h} head={h} text={x} />
                       ))}
-                    </div>
-                  )}
-                  {d.extras.length > 0 && (
-                    <div className="mt-4 border-l-[3px] border-line pl-3">
-                      <p className="text-sm font-bold text-muted">Food &amp; extras</p>
-                      <Schedule rows={d.extras} city={d.city} compact />
                     </div>
                   )}
                   <p className="mt-3 text-[.95rem] text-muted">

diff --git a/CLAUDE.md b/CLAUDE.md
@@ -228,8 +228,14 @@ copy; editing it deploys nothing.
     are fine.
   - The agent's PDFs are context only — never put them in `public/`.
   - The page is `noindex`; its OG image shows dates and cities only.
-- Updates come as a claude.ai artifact link or a zip with a newer `data.ts`: diff it,
-  carry the changes over, and strip any refs again.
+- Each day is **one timeline** of `[time, text, kind, note?]` entries: kind `"i"` is
+  from the agent's itinerary (filled dot), `"x"` is something Dhairya added (hollow
+  dot + "added" tag). A legend explains the two. Tips sit beside the day on desktop.
+- Updates come from his private claude.ai artifact
+  (`https://claude.ai/artifact/5x3psKogRssTmXxeYFCVAg`). Save its `index.html`,
+  evaluate the `DAYS` array literal as data, regenerate `DAYS` in `data.ts`, and
+  strip booking refs from the gists (they're in there every time). Compare the
+  flights, hotels and to-check sections by hand — they live in the HTML, not `DAYS`.
 
 ---
 
